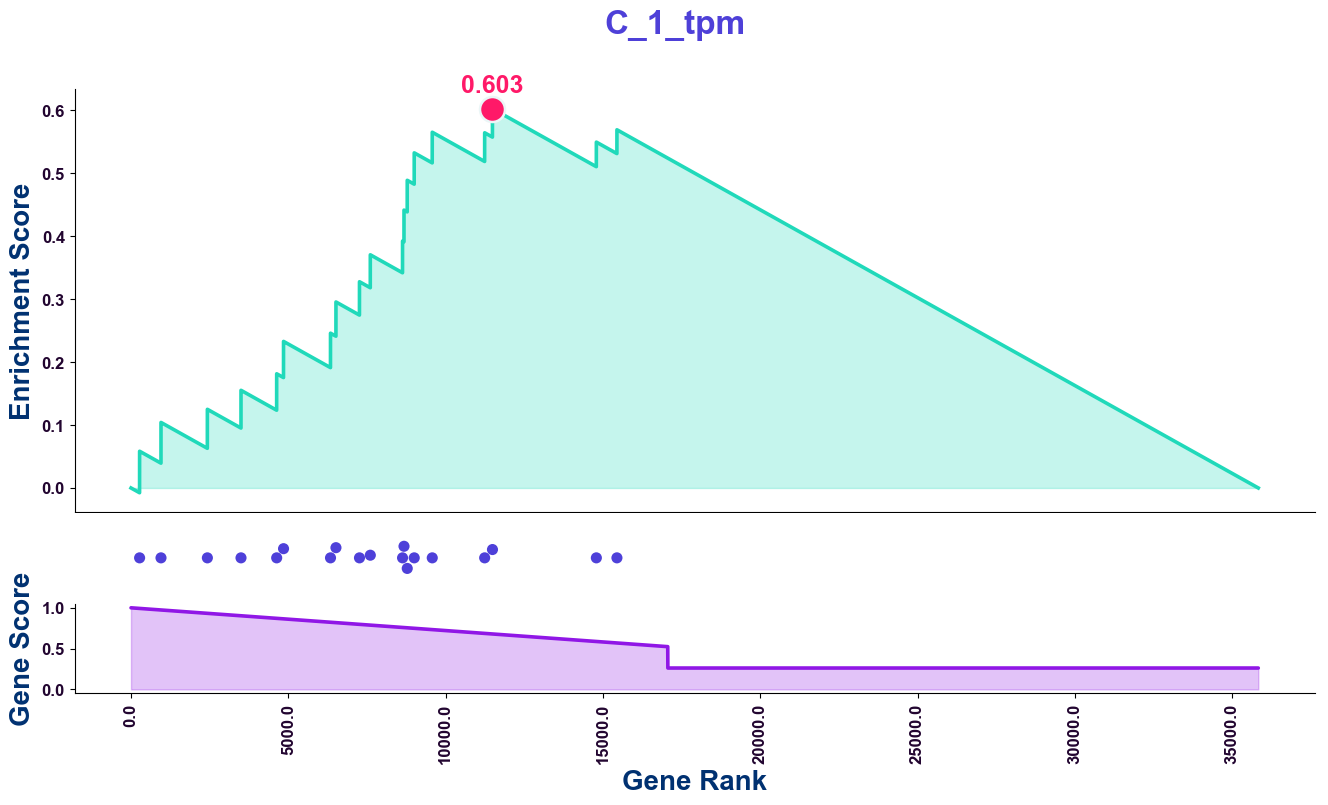
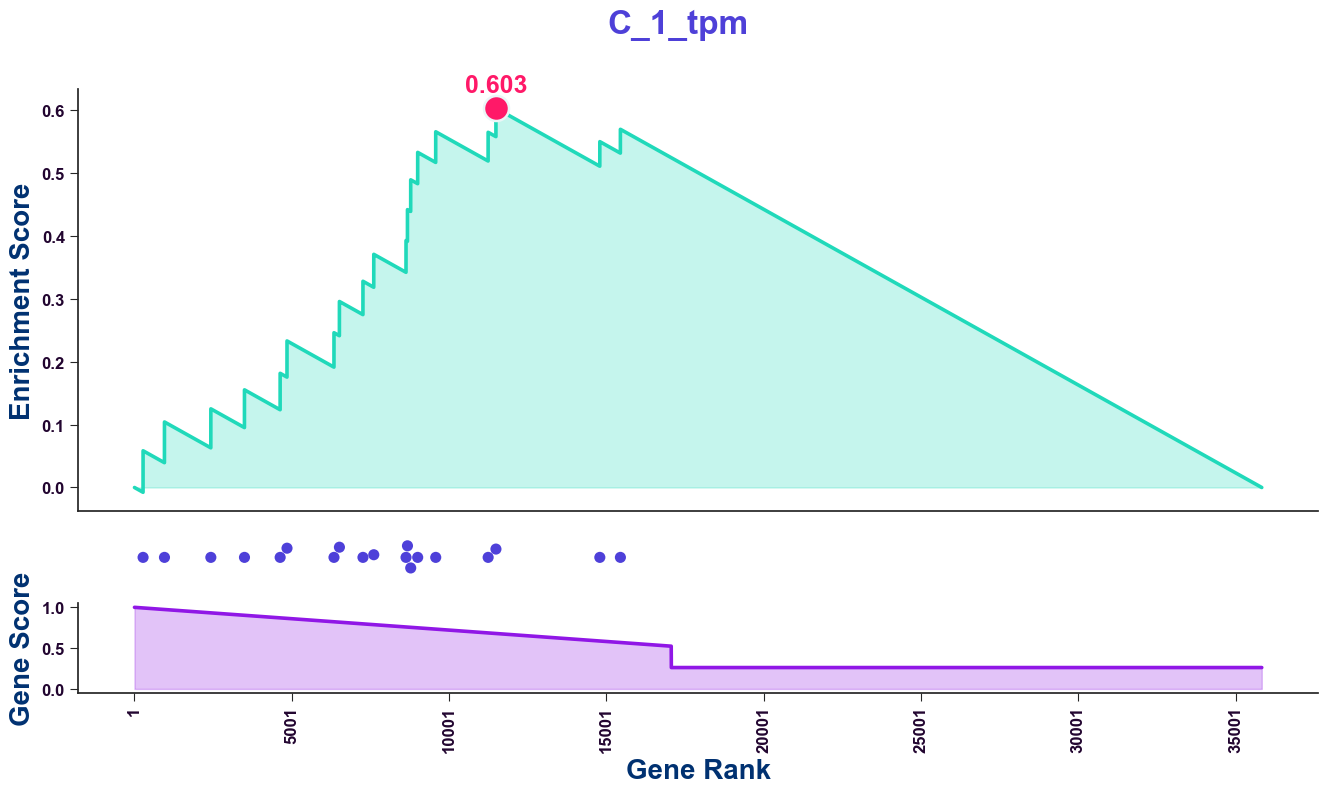
mountain_plot

diff --git a/gsea/plot_mountain_plot.py b/gsea/plot_mountain_plot.py
@@ -92,8 +92,8 @@ def plot_mountain_plot(cumulative_sums,
         alpha=fill_between_alpha)
     decorate(ax=ax_gene_score, xlabel='Gene Rank', ylabel='Gene Score')
 
-    # ax.set_xticklabels(
-    #     [int(float(text.get_text()) + 1) for text in ax.get_xticklabels()])
+    ax.set_xticklabels(
+        [int(float(text.get_text()) + 1) for text in ax.get_xticklabels()])
 
     if file_path:
         save_plot(file_path)
